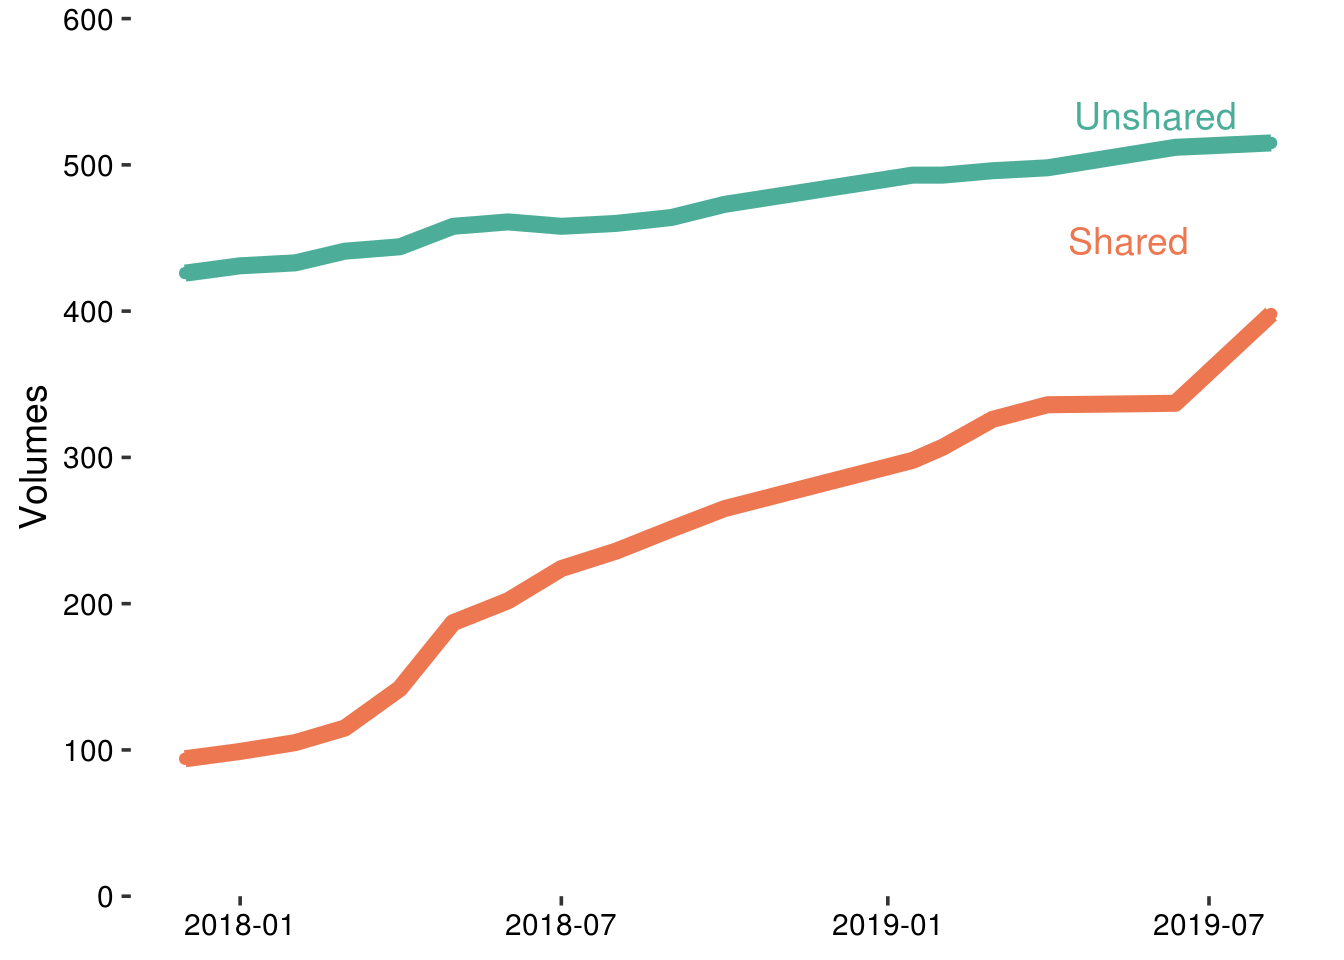
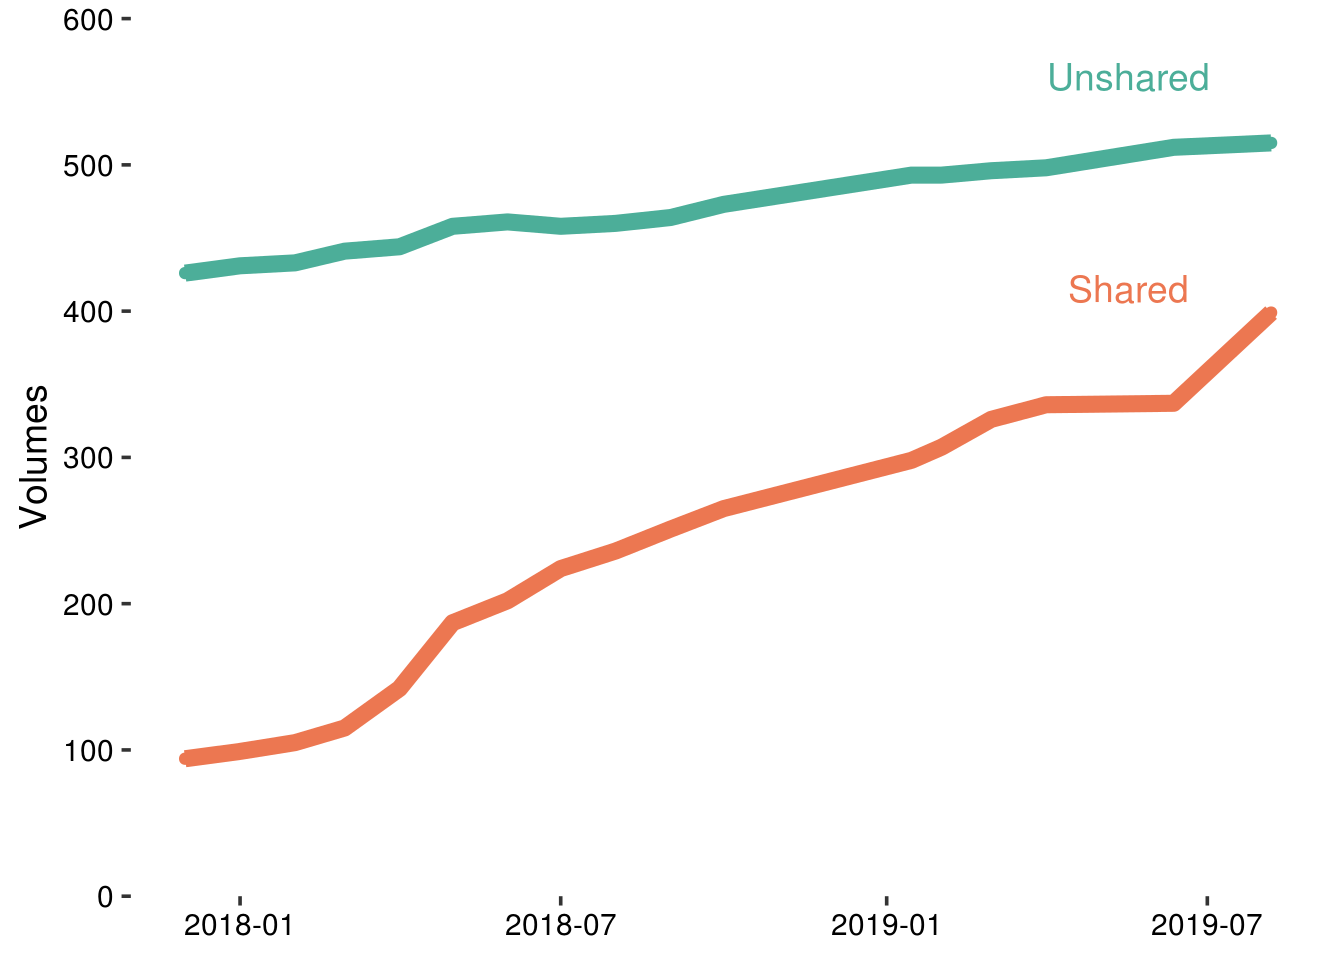
finalize update google sheets from Databrary metadata

diff --git a/databrary_monthly.html b/databrary_monthly.html
@@ -262,7 +262,7 @@ div.tocify {
 
 <h1 class="title toc-ignore">Databrary Monthly</h1>
 <h4 class="author">Rick O. Gilmore</h4>
-<h4 class="date">2019-08-05 14:03:04</h4>
+<h4 class="date">2019-08-06 10:44:16</h4>
 
 </div>
 
@@ -298,9 +298,10 @@ updated_stats &lt;- updated_stats %&gt;%
   mutate(date = lubridate::as_date(date)) %&gt;%
   select(date, count, type) %&gt;%
   filter(type %in% c(&#39;institutions&#39;, &#39;investigators&#39;, &#39;affiliates&#39;)) %&gt;%
-  filter(!is.na(count))</code></pre>
-<pre><code>## Warning: 3 failed to parse.</code></pre>
-<pre class="r"><code># Plot
+  filter(!is.na(count))
+
+
+# Plot
 p &lt;- updated_stats %&gt;%
   ggplot(., aes(x = date, y = count, color = type, group = type)) +
   geom_point() + 
@@ -315,8 +316,6 @@ ggdraw(p) +
   draw_label(&quot;Investigators&quot;, colour = color_teal, .8, .9) +
   draw_label(&quot;Institutions&quot;, colour = color_orange, .9, .6)+
   draw_label(&quot;Affiliates&quot;, colour = color_purple, .9, .3)</code></pre>
-<pre><code>## Warning: Removed 3 rows containing missing values (geom_point).</code></pre>
-<pre><code>## Warning: Removed 3 rows containing missing values (geom_path).</code></pre>
 <p><img src="databrary_monthly_files/figure-html/db-inst-user-plot-1.png" width="672" /></p>
 <div id="new-investigators" class="section level2">
 <h2><span class="header-section-number">1.1</span> New investigators</h2>
@@ -334,16 +333,21 @@ new_people %&gt;%
 </thead>
 <tbody>
 <tr class="odd">
+<td align="left">Chevalier</td>
+<td align="left">Nicolas</td>
+<td align="left">University of Edinburgh</td>
+</tr>
+<tr class="even">
 <td align="left">Carcea</td>
 <td align="left">Ioana</td>
 <td align="left">Rutgers BHI</td>
 </tr>
-<tr class="even">
+<tr class="odd">
 <td align="left">Bauer</td>
 <td align="left">Patricia</td>
 <td align="left">Emory University</td>
 </tr>
-<tr class="odd">
+<tr class="even">
 <td align="left">Hupp</td>
 <td align="left">Julie</td>
 <td align="left">Ohio State University</td>
@@ -379,6 +383,14 @@ new_institutions %&gt;%
 </tr>
 </tbody>
 </table>
+<p>Next, we update the Google Sheet if <code>params$update_gs</code> is TRUE. In the current context, <code>params$update_gs</code> == FALSE.</p>
+<pre class="r"><code>if (as.logical(params$update_gs)) {
+  db &lt;- db %&gt;%
+    gs_add_row(ws = &#39;institutions-investigators&#39;, input = new_stats[,c(1, 4, 2, 3)])
+  message(&quot;&#39;update_gs&#39; parameter is &#39;TRUE&#39;, so Google Sheet data will be updated.&quot;)
+} else {
+  message(&quot;&#39;update_gs&#39; parameter is &#39;FALSE&#39;, so Google Sheet data unmodified.&quot;)
+}</code></pre>
 </div>
 </div>
 <div id="volumes" class="section level1">
@@ -410,9 +422,18 @@ vols_plot &lt;- updated_vols %&gt;%
   coord_cartesian(ylim = c(0, round_any(max(updated_vols$count), 100, ceiling)))
   
 ggdraw(vols_plot) + 
-  draw_label(&quot;Unshared&quot;, colour = color_teal, .86, .88) +
-  draw_label(&quot;Shared&quot;, colour = color_orange, .84, .75)</code></pre>
-<p><img src="databrary_monthly_files/figure-html/db-vols-plot-1.png" width="672" /></p>
+  draw_label(&quot;Unshared&quot;, colour = color_teal, .84, .92) +
+  draw_label(&quot;Shared&quot;, colour = color_orange, .84, .70)</code></pre>
+<p><img src="databrary_monthly_files/figure-html/db-vols-plot-1.png" width="672" /> Next, we update the Google Sheet if <code>params$update_gs</code> is TRUE. In the current context, <code>params$update_gs</code> == FALSE.</p>
+<pre class="r"><code>if (as.logical(params$update_gs)) {
+  new_data &lt;- data_frame(date = Sys.Date(), 
+                         shared_volumes = new_stats$datasets_shared, 
+                         unshared_volumes = new_stats$datasets_total - new_stats$datasets_shared)
+  db &lt;- db %&gt;%
+    gs_add_row(ws = &#39;volumes-shared-unshared&#39;, input = new_data)  
+} else {
+  message(&quot;&#39;update_gs&#39; parameter is &#39;false&#39;, so Google Sheet data unmodified.&quot;)
+}</code></pre>
 <div id="new-volumes" class="section level2">
 <h2><span class="header-section-number">2.1</span> New volumes</h2>
 <pre class="r"><code>new_volumes &lt;- databraryapi::get_db_stats(type = &quot;datasets&quot;)
@@ -452,11 +473,6 @@ new_volumes %&gt;%
 <td align="left">The D.R.E.A.M Study (Development, Replicability, Experience, Attention, &amp; Memory)</td>
 <td align="left">2019-07-30T20:08:40.712888Z</td>
 <td align="left">list(name = c(“Prado, Elizabeth”, “Oakes, Lisa”), id = c(4458, 538))</td>
-</tr>
-<tr class="even">
-<td align="left">Scientific Reasoning</td>
-<td align="left">2019-07-29T17:53:12.335283Z</td>
-<td align="left">list(name = “Weisberg, Deena Skolnick”, id = 562)</td>
 </tr>
 </tbody>
 </table>
@@ -519,6 +535,16 @@ ggdraw(citations_plot) +
   draw_label(&quot;Datavyu&quot;, colour = color_teal, .9, .6) +
   draw_label(&quot;Databrary&quot;, colour = color_orange, .7, .85)</code></pre>
 <p><img src="databrary_monthly_files/figure-html/db-dv-citations-plot-1.png" width="672" /></p>
+<pre class="r"><code>if (as.logical(params$update_gs)) {
+  new_data &lt;- data_frame(date = Sys.Date(), 
+                         databrary_citations = databrary_cites, 
+                         datavyu_citations = datavyu_cites)
+  db &lt;- db %&gt;%
+    gs_add_row(ws = &#39;citations-monthly&#39;, input = new_data)
+  message(&quot;&#39;update_gs&#39; parameter is &#39;TRUE&#39;, so Google Sheet data will be updated.&quot;)
+} else {
+  message(&quot;&#39;update_gs&#39; parameter is &#39;FALSE&#39;, so Google Sheet data unmodified.&quot;)
+}</code></pre>
 </div>
 <div id="data-about-volumes-with-videos" class="section level1">
 <h1><span class="header-section-number">4</span> Data about volumes with videos</h1>
@@ -531,7 +557,7 @@ vol_ids &lt;- as.numeric(vol_nums[,2])
 last_vol &lt;- max(vol_ids)
 vols_to_test &lt;- params$vols_to_test
 
-# Create function to write new data files for each volum
+# Create function to write new data files for each volume
 write_vid_csv &lt;- function(vol.id = 1) {
   message(paste0(&quot;Getting data for volume &quot;, vol.id))
   vid_dat &lt;- get_video_stats(vol.id)
@@ -551,7 +577,7 @@ video_stats &lt;- Reduce(function(x,y) merge(x, y, all = TRUE), video_data)</cod
 vol_info &lt;- lapply(vols, list_volume_metadata)
 vols_data &lt;- Reduce(function(x,y) merge(x, y, all = TRUE), vol_info)
 vols_joined &lt;- dplyr::left_join(vols_data, video_stats, by = c(&quot;vol_id&quot; = &quot;vol_id&quot;))</code></pre>
-<p>There are 16 volumes with DOIs (shared) that have sessions and at least one video as of today (2019-08-05 14:03:32).</p>
+<p>There are 16 volumes with DOIs (shared) that have sessions and at least one video as of today (2019-08-06 10:44:42).</p>
 <div id="number-of-videos-in-shared-volumes" class="section level2">
 <h2><span class="header-section-number">4.1</span> Number of videos in (shared) volumes</h2>
 <pre class="r"><code>vols_joined %&gt;%

diff --git a/databrary_weekly_rpt.html b/databrary_weekly_rpt.html
@@ -262,17 +262,16 @@ div.tocify {
 
 <h1 class="title toc-ignore">Databrary Weekly</h1>
 <h4 class="author">Rick O. Gilmore &amp; Andrea Seisler</h4>
-<h4 class="date">2019-08-05 14:08:07</h4>
+<h4 class="date">2019-08-06 10:45:46</h4>
 
 </div>
 
 
 <div id="institutions-authorized-users" class="section level1">
 <h1><span class="header-section-number">1</span> Institutions &amp; Authorized Users</h1>
-<!-- At the moment, the `old_stats` come from a CSV stored locally. -->
+<!-- At the moment, the `old_stats` come from google sheets. -->
 <!-- Once we have API commands to upload new data, the `old_stats` can come from Databrary directly. -->
 <pre class="r"><code>new_stats &lt;- databraryapi::get_db_stats()
-# old_stats &lt;- read_csv(&quot;csv/institutionAuthCounts.csv&quot;)
 new_stats$date &lt;- lubridate::as_datetime(new_stats$date)</code></pre>
 <p>Let’s try a Google Sheets-centered workflow. If this is the first time you are rendering this document in your current work session, please run this command to authenticate to Google from the command line, that is <strong>outside of RMarkdown</strong>:</p>
 <pre><code>db &lt;- googlesheets::gs_title(&#39;Databrary-analytics&#39;)</code></pre>
@@ -323,7 +322,7 @@ ggdraw(p) +
 <p>Next, we update the Google Sheet if <code>params$update_gs</code> is TRUE. In the current context, <code>params$update_gs</code> == FALSE.</p>
 <pre class="r"><code>if (as.logical(params$update_gs)) {
   db &lt;- db %&gt;%
-    gs_add_row(ws = &#39;institutions-investigators&#39;, input = new_stats[,c(1, 4, 2)])
+    gs_add_row(ws = &#39;institutions-investigators&#39;, input = new_stats[,c(1, 4, 2, 3)])
   message(&quot;&#39;update_gs&#39; parameter is &#39;TRUE&#39;, so Google Sheet data will be updated.&quot;)
 } else {
   message(&quot;&#39;update_gs&#39; parameter is &#39;FALSE&#39;, so Google Sheet data unmodified.&quot;)
@@ -346,18 +345,24 @@ new_people %&gt;%
 </thead>
 <tbody>
 <tr class="odd">
+<td align="left">Chevalier</td>
+<td align="left">Nicolas</td>
+<td align="left">University of Edinburgh</td>
+<td align="left"><a href="https://databrary.org/party/4406" class="uri">https://databrary.org/party/4406</a></td>
+</tr>
+<tr class="even">
 <td align="left">Carcea</td>
 <td align="left">Ioana</td>
 <td align="left">Rutgers BHI</td>
 <td align="left"><a href="https://databrary.org/party/4732" class="uri">https://databrary.org/party/4732</a></td>
 </tr>
-<tr class="even">
+<tr class="odd">
 <td align="left">Bauer</td>
 <td align="left">Patricia</td>
 <td align="left">Emory University</td>
 <td align="left"><a href="https://databrary.org/party/5539" class="uri">https://databrary.org/party/5539</a></td>
 </tr>
-<tr class="odd">
+<tr class="even">
 <td align="left">Hupp</td>
 <td align="left">Julie</td>
 <td align="left">Ohio State University</td>
@@ -436,8 +441,8 @@ vols_plot &lt;- updated_vols %&gt;%
 
 
 ggdraw(vols_plot) + 
-  draw_label(&quot;Unshared&quot;, colour = color_teal, .86, .88) +
-  draw_label(&quot;Shared&quot;, colour = color_orange, .84, .75)</code></pre>
+  draw_label(&quot;Unshared&quot;, colour = color_teal, .84, .92) +
+  draw_label(&quot;Shared&quot;, colour = color_orange, .84, .70)</code></pre>
 <p><img src="databrary_weekly_rpt_files/figure-html/db-vols-plot-1.png" width="672" /></p>
 <p>Next, we update the Google Sheet if <code>params$update_gs</code> is TRUE.</p>
 <pre class="r"><code>if (as.logical(params$update_gs)) {
@@ -529,12 +534,6 @@ unnested_vols %&gt;%
 <td align="left">Oakes, Lisa</td>
 <td align="left"><a href="https://nyu.databrary.org/volume/951" class="uri">https://nyu.databrary.org/volume/951</a></td>
 </tr>
-<tr class="odd">
-<td align="left">Scientific Reasoning</td>
-<td align="left">2019-07-29</td>
-<td align="left">Weisberg, Deena Skolnick</td>
-<td align="left"><a href="https://nyu.databrary.org/volume/950" class="uri">https://nyu.databrary.org/volume/950</a></td>
-</tr>
 </tbody>
 </table>
 </div>
@@ -552,7 +551,7 @@ vol_ids &lt;- as.numeric(vol_nums[,2])
 last_vol &lt;- max(vol_ids)
 vols_to_test &lt;- params$vols_to_test
 
-# Create function to write new data files for each volum
+# Create function to write new data files for each volume
 write_vid_csv &lt;- function(vol.id = 1) {
   message(paste0(&quot;Getting data for volume &quot;, vol.id))
   vid_dat &lt;- get_video_stats(vol.id)
@@ -572,7 +571,7 @@ video_stats &lt;- Reduce(function(x,y) merge(x, y, all = TRUE), video_data)</cod
 vol_info &lt;- lapply(vols, list_volume_metadata)
 vols_data &lt;- Reduce(function(x,y) merge(x, y, all = TRUE), vol_info)
 vols_joined &lt;- dplyr::left_join(vols_data, video_stats, by = c(&quot;vol_id&quot; = &quot;vol_id&quot;))</code></pre>
-<p>There are 16 volumes with DOIs (shared) that have sessions and at least one video as of today (2019-08-05 14:08:37).</p>
+<p>There are 16 volumes with DOIs (shared) that have sessions and at least one video as of today (2019-08-06 10:46:11).</p>
 <div id="number-of-videos-in-shared-volumes" class="section level2">
 <h2><span class="header-section-number">3.1</span> Number of videos in (shared) volumes</h2>
 <pre class="r"><code>vols_joined %&gt;%
